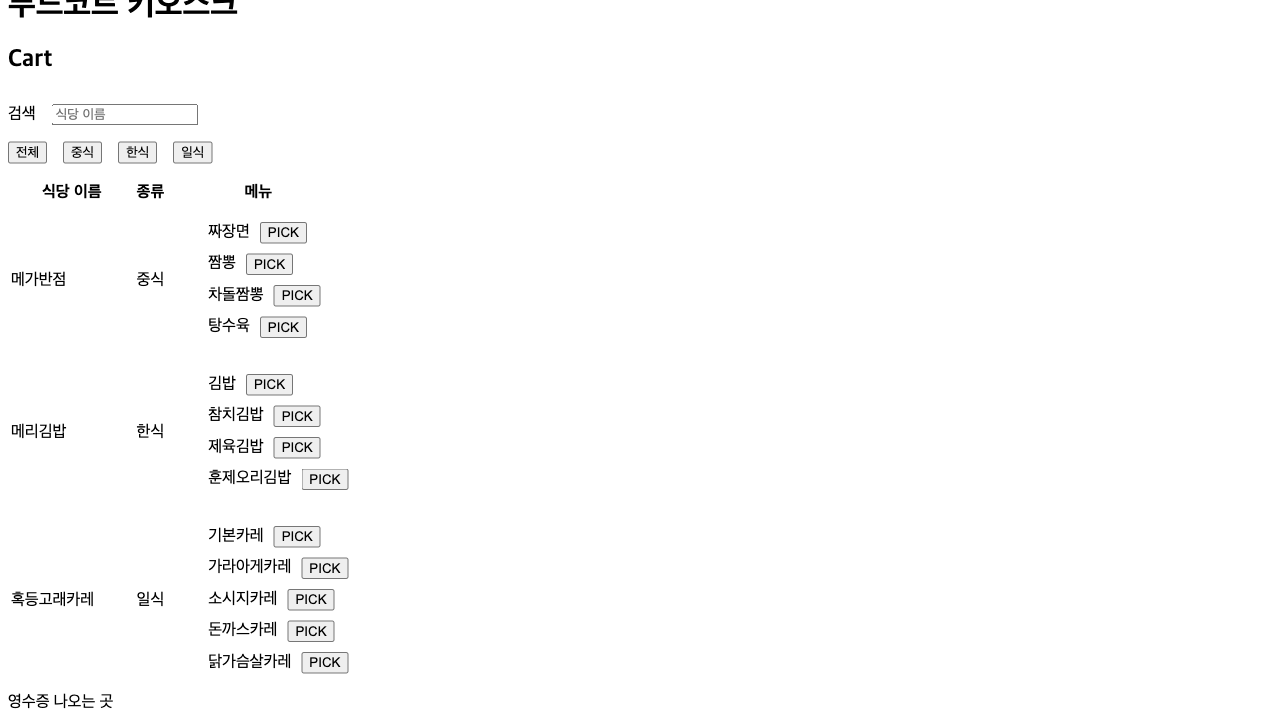
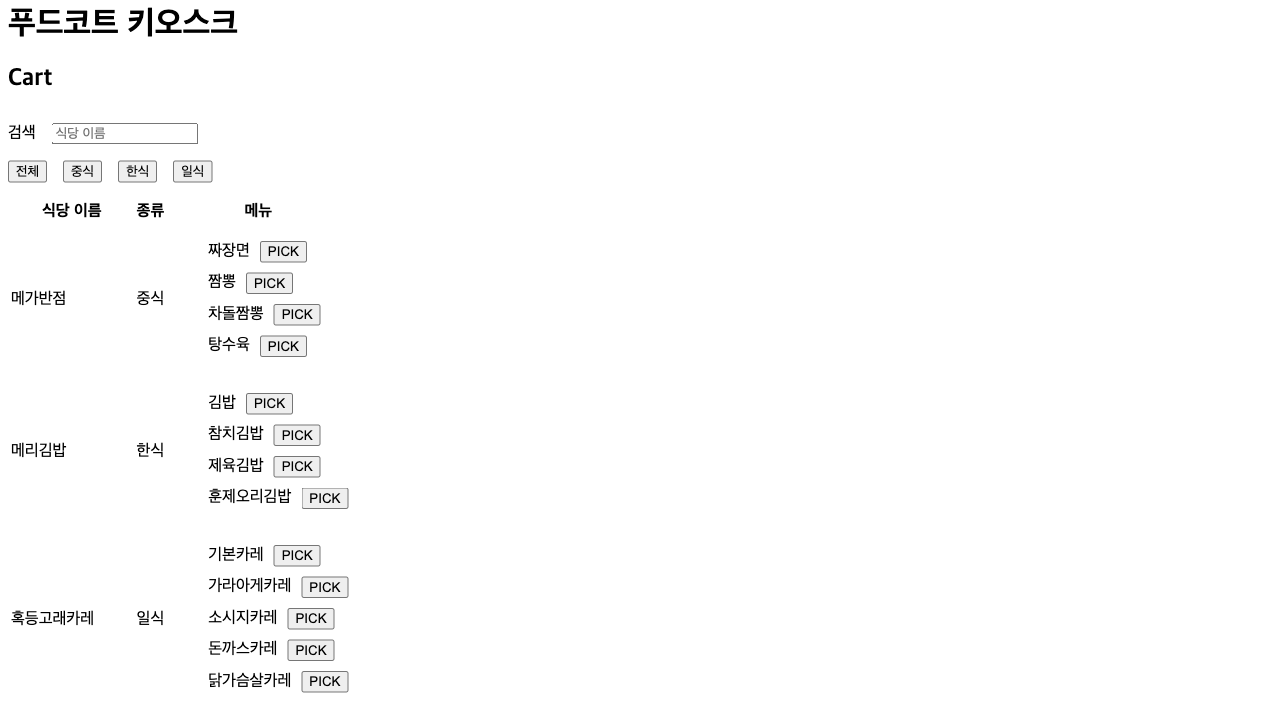
🧹 refac

diff --git a/react-app/src/pages/KioskIndex.tsx b/react-app/src/pages/KioskIndex.tsx
@@ -1,13 +1,16 @@
-import { ChangeEvent, useState } from 'react';
+import { useState } from 'react';
 import { useLocalStorage } from 'usehooks-ts';
-import useFetchRestaurants from '../hooks/useFetchRestaurants';
-import { Menu, ReceiptProps } from '../types/restaurants';
+
 import Carts from '../components/Carts';
 import SearchInput from '../components/SearchInput';
 import CategoryButtons from '../components/CategoryButtons';
 import RestaurantList from '../components/RestaurantList';
 import Receipt from '../components/Receipt';
+
 import useFilteredRestaurant from '../hooks/useFilteredRestaurant';
+import useFetchRestaurants from '../hooks/useFetchRestaurants';
+import { Menu, ReceiptProps } from '../types/restaurants';
+import order from '../network/api';
 
 export default function Kiosk() {
   const [shopName, setShopName] = useState('');
@@ -21,11 +24,7 @@ export default function Kiosk() {
     totalPrice: 0,
   });
 
-  const categoryNames = ['전체', ...new Set(restaurants?.map((shop: { category: string; }) => shop.category))];
   const totalPrice = carts.reduce((a, b) => a + b.price, 0);
-
-  const inputShopName = (e: ChangeEvent<HTMLInputElement>) => setShopName(e.target.value.trim());
-
   const addCart = (item: Menu) => {
     setCarts([...carts, item]);
   };
@@ -35,19 +34,9 @@ export default function Kiosk() {
     setCarts(carts);
   };
 
-  const order = () => {
-    fetch('http://localhost:3000/orders', {
-      method: 'POST',
-      headers: {
-        'Content-Type': 'application/json',
-      },
-      body: JSON.stringify({
-        menu: carts,
-        totalPrice,
-      }),
-    })
-      .then((res) => res.json())
-      .then((data) => setReceipt(data));
+  const onClickOrder = () => {
+    order(carts, totalPrice)
+      .then((res:ReceiptProps) => setReceipt(res));
   };
 
   const endReceipt = () => {
@@ -64,21 +53,26 @@ export default function Kiosk() {
       <h1>푸드코트 키오스크</h1>
       <h2>Cart</h2>
 
+      <Receipt
+        receipt={receipt}
+        endReceipt={endReceipt}
+      />
+
       <Carts
         carts={carts}
         totalPrice={totalPrice}
         cancelOrder={cancelOrder}
-        order={order}
+        onClickOrder={onClickOrder}
         setCarts={setCarts}
       />
 
       <SearchInput
         shopName={shopName}
-        inputShopName={inputShopName}
+        setShopName={setShopName}
       />
 
       <CategoryButtons
-        categoryNames={categoryNames}
+        restaurants={restaurants}
         setSelectedCategory={setSelectedCategory}
       />
 
@@ -87,10 +81,7 @@ export default function Kiosk() {
         addCart={addCart}
       />
 
-      <Receipt
-        receipt={receipt}
-        endReceipt={endReceipt}
-      />
+      <div style={{ color: '#e5e5e5' }}>영수증 나오는 곳</div>
 
     </>
   );

diff --git a/react-app/src/components/Carts.tsx b/react-app/src/components/Carts.tsx
@@ -1,22 +1,22 @@
+import { Dispatch, SetStateAction } from 'react';
 import { Menu } from '../types/restaurants';
 
 interface CartsProps {
     carts: Menu[],
     totalPrice : number,
     cancelOrder: (idx: number) => void,
-    order:()=>void,
-    // eslint-disable-next-line @typescript-eslint/no-explicit-any
-    setCarts: any
+    onClickOrder:()=>void,
+    setCarts: Dispatch<SetStateAction<Menu[]>>
 }
 
 export default function Carts({
-  carts, totalPrice, cancelOrder, order, setCarts,
+  carts, totalPrice, cancelOrder, onClickOrder, setCarts,
 }:CartsProps) {
   return carts.length ? (
     <div style={{ border: '1px solid teal', padding: 10 }}>
       <ul>
         {carts.map((item, idx) => (
-        // eslint-disable-next-line react/no-array-index-key
+          // eslint-disable-next-line react/no-array-index-key
           <li key={idx} style={{ marginBottom: 10 }}>
             {item.name}
             {' '}
@@ -28,7 +28,7 @@ export default function Carts({
       </ul>
 
       <div style={{ display: 'flex', fontSize: 20 }}>
-        <button type="button" style={{ fontSize: 20 }} onClick={order}>
+        <button type="button" style={{ fontSize: 20 }} onClick={onClickOrder}>
           합계:
           {' '}
           {totalPrice.toLocaleString()}

diff --git a/react-app/src/components/CategoryButtons.tsx b/react-app/src/components/CategoryButtons.tsx
@@ -1,14 +1,22 @@
+import { Dispatch, SetStateAction } from 'react';
+import { Restaurnant } from '../types/restaurants';
+
 interface CategoryProps {
-    categoryNames:string[],
-    setSelectedCategory:React.Dispatch<React.SetStateAction<string>>
+    restaurants: Restaurnant[],
+    setSelectedCategory:Dispatch<SetStateAction<string>>
 }
 
-export default function CategoryButtons({ categoryNames, setSelectedCategory }:CategoryProps) {
+export default function CategoryButtons({ restaurants, setSelectedCategory }:CategoryProps) {
+  const categoryNames = [
+    '전체',
+    ...new Set(restaurants?.map((shop: { category: string; }) => shop.category)),
+  ];
+
   return (
     <ul style={{ display: 'flex', padding: 0, listStyle: 'none' }}>
-      {categoryNames.map((shop) => (
-        <li key={shop} style={{ marginRight: '1rem' }}>
-          <button type="button" onClick={() => setSelectedCategory(shop)}>{shop}</button>
+      {categoryNames.map((name) => (
+        <li key={name} style={{ marginRight: '1rem' }}>
+          <button type="button" onClick={() => setSelectedCategory(name)}>{name}</button>
         </li>
       ))}
     </ul>

diff --git a/react-app/src/components/SearchInput.tsx b/react-app/src/components/SearchInput.tsx
@@ -1,14 +1,24 @@
-import { ChangeEvent } from 'react';
+import { Dispatch, SetStateAction } from 'react';
 
 interface SearchProps {
     shopName: string,
-    inputShopName: (e: ChangeEvent<HTMLInputElement>) => void; }
+    setShopName: Dispatch<SetStateAction<string>>
+    }
 
-export default function SearchInput({ shopName, inputShopName }:SearchProps) {
+export default function SearchInput({ shopName, setShopName }:SearchProps) {
   return (
     <div style={{ marginTop: 30 }}>
-      <label htmlFor="input-검색" style={{ paddingRight: '1rem' }}>검색</label>
-      <input id="input-검색" type="text" placeholder="식당 이름" value={shopName} onChange={inputShopName} />
+      <label htmlFor="input-검색" style={{ paddingRight: '1rem' }}>
+        검색
+      </label>
+
+      <input
+        id="input-검색"
+        type="text"
+        placeholder="식당 이름"
+        value={shopName}
+        onChange={(e) => setShopName(e.target.value.trim())}
+      />
     </div>
   );
 }

diff --git a/react-app/src/components/Receipt.tsx b/react-app/src/components/Receipt.tsx
@@ -7,7 +7,7 @@ interface Receipt {
  endReceipt:()=>void
 }
 
-export default function Receipt({ receipt, endReceipt }:Receipt) {
+export default function ReceiptIndex({ receipt, endReceipt }:Receipt) {
   useInterval(endReceipt, receipt?.menu.length ? 3000 : null);
 
   return receipt?.menu.length ? (
@@ -43,5 +43,5 @@ export default function Receipt({ receipt, endReceipt }:Receipt) {
       </div>
 
     </div>
-  ) : <div>영수증 나오는 곳</div>;
+  ) : <div />;
 }

diff --git a/react-app/src/network/api.ts b/react-app/src/network/api.ts
@@ -1,0 +1,15 @@
+import { Menu } from '../types/restaurants';
+
+export default function order(carts:Menu[], totalPrice:number) {
+  return fetch('http://localhost:3000/orders', {
+    method: 'POST',
+    headers: {
+      'Content-Type': 'application/json',
+    },
+    body: JSON.stringify({
+      menu: carts,
+      totalPrice,
+    }),
+  })
+    .then((res) => res.json());
+}

diff --git a/react-app/src/components/MenuList.tsx b/react-app/src/components/MenuList.tsx
@@ -9,6 +9,7 @@ export default function MenuList({ shop, addCart }:MenuProps) {
   const {
     name, category, menu,
   } = shop;
+
   return (
     <tr>
       <td>{name}</td>

diff --git a/README.md b/README.md
@@ -25,5 +25,5 @@ npm start
 ```shell
 npm start
 
-npm codeceptjs
+npm run codeceptjs
 ```
